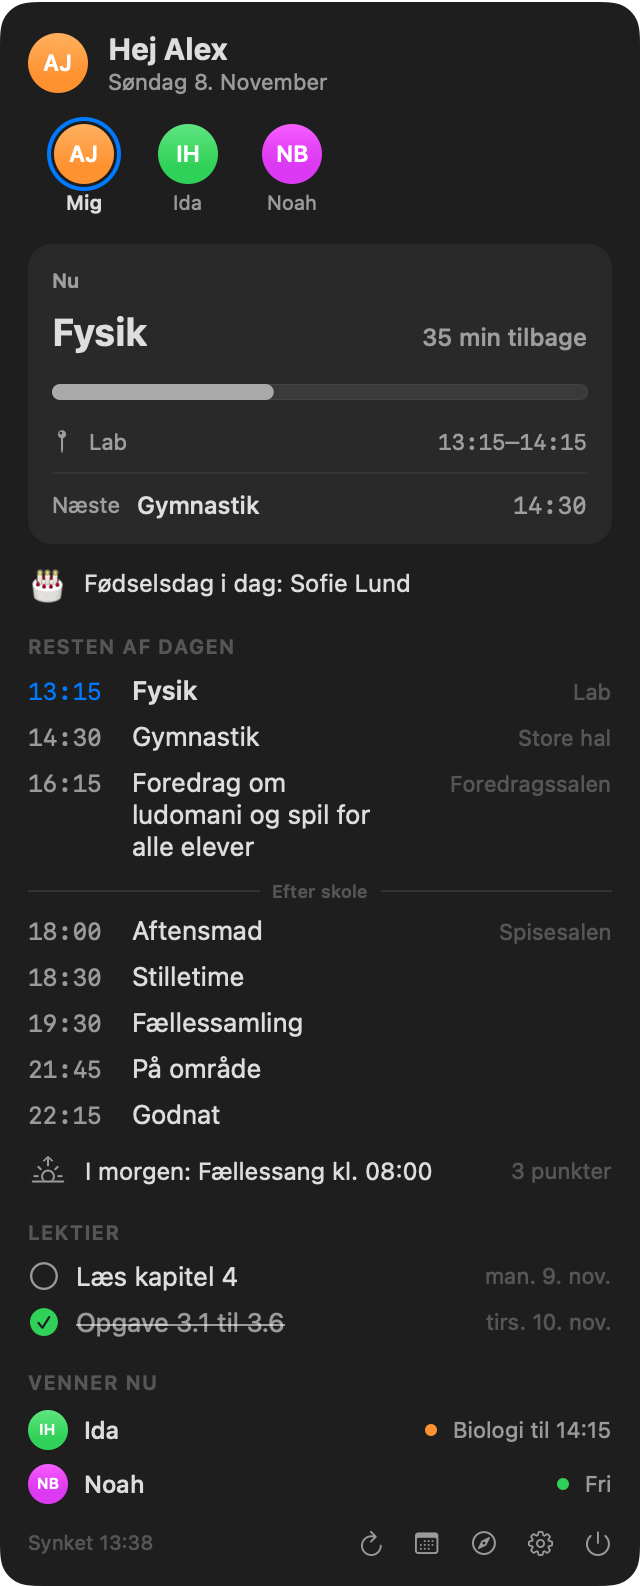
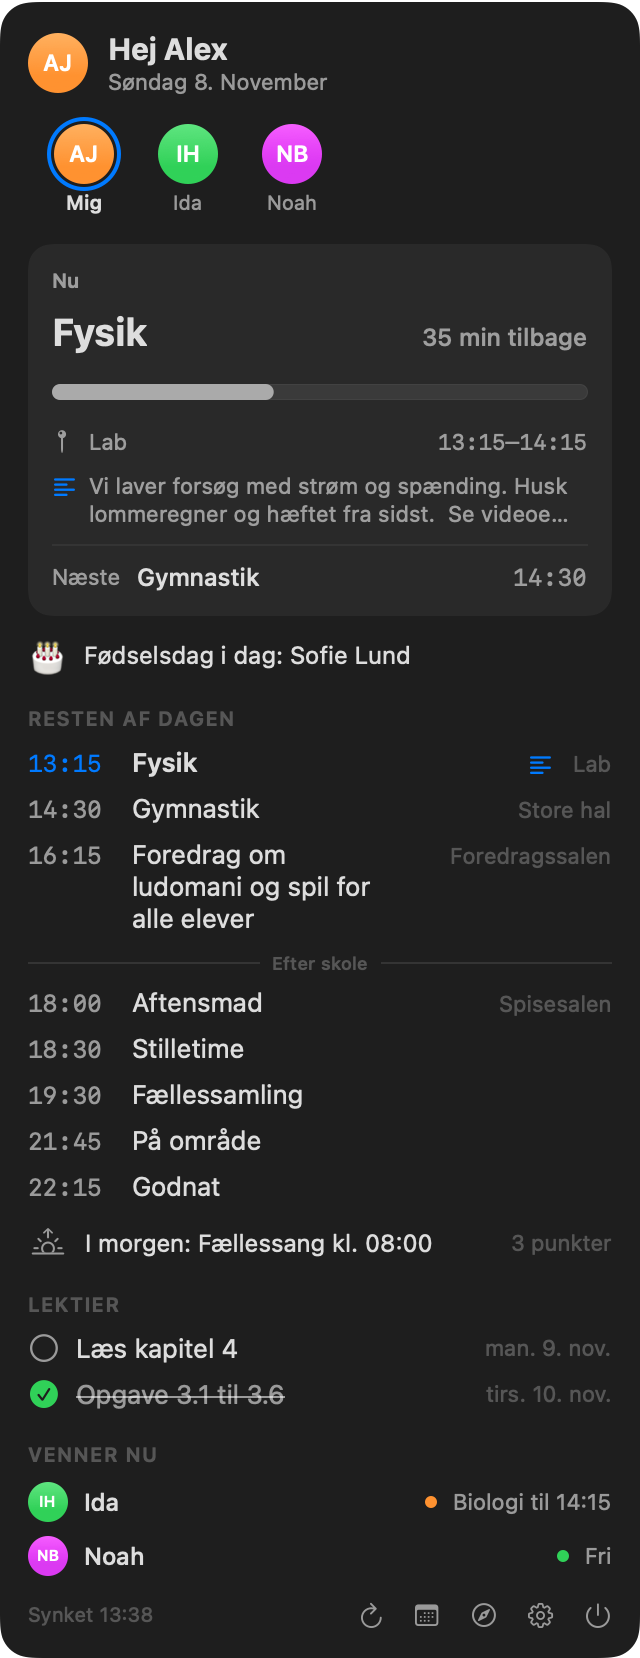
Version 1.2.0: info og links fra læreren til hver time

diff --git a/Sources/Features.swift b/Sources/Features.swift
@@ -374,8 +374,100 @@ struct GridBlock: View {
         .clipShape(RoundedRectangle(cornerRadius: 6, style: .continuous))
         .opacity(e.end < Date() ? 0.55 : 1)
         .help("\(e.title)\n\(DateUtil.hm(e.start))–\(DateUtil.hm(e.end))\(e.room.isEmpty ? "" : " · \(e.room)")")
+        .overlay(alignment: .topTrailing) {
+            if e.hasInfo || !e.links.isEmpty {
+                Image(systemName: "text.alignleft").font(.system(size: 9, weight: .bold)).foregroundStyle(tint)
+                    .padding(4)
+            }
+        }
         .contentShape(Rectangle())
-        .onTapGesture { NSWorkspace.shared.open(e.link) }
+        .onTapGesture { AppState.shared.openLesson(e) }
+    }
+}
+
+// MARK: - Lesson details
+
+struct LessonDetailView: View {
+    let e: ViggoEvent
+
+    private func linkLabel(_ u: URL) -> String {
+        let host = (u.host ?? u.absoluteString).replacingOccurrences(of: "www.", with: "")
+        if host.contains("youtube") || host.contains("youtu.be") { return "YouTube" }
+        if host.contains("drive.google") || host.contains("docs.google") { return "Google Drev" }
+        return host
+    }
+    private func linkIcon(_ u: URL) -> String {
+        let h = u.host ?? ""
+        if h.contains("youtube") || h.contains("youtu.be") { return "play.rectangle.fill" }
+        if h.contains("google") { return "doc.fill" }
+        return "link"
+    }
+
+    var body: some View {
+        let tint = e.customColor ?? (e.kind == .lesson ? Color.accentColor : .purple)
+        ScrollView {
+            VStack(alignment: .leading, spacing: 14) {
+                HStack(alignment: .top, spacing: 10) {
+                    RoundedRectangle(cornerRadius: 2).fill(tint).frame(width: 4, height: 40)
+                    VStack(alignment: .leading, spacing: 3) {
+                        Text(e.title).font(.system(size: 20, weight: .bold)).fixedSize(horizontal: false, vertical: true)
+                        Text("\(DateUtil.longDayF.string(from: e.start).capitalized) · \(DateUtil.hm(e.start))–\(DateUtil.hm(e.end))")
+                            .font(.system(size: 12)).foregroundStyle(.secondary)
+                    }
+                }
+                VStack(alignment: .leading, spacing: 6) {
+                    if !e.room.isEmpty { Label(e.room, systemImage: "mappin.and.ellipse") }
+                    if !e.teachers.isEmpty {
+                        Label(e.teachers.prefix(4).joined(separator: ", ") + (e.teachers.count > 4 ? " +\(e.teachers.count - 4)" : ""),
+                              systemImage: "person")
+                    }
+                    if !e.groups.isEmpty, e.groups.count <= 3 { Label(e.groups.joined(separator: ", "), systemImage: "person.3") }
+                }
+                .font(.system(size: 12)).foregroundStyle(.secondary)
+
+                if e.hasInfo {
+                    VStack(alignment: .leading, spacing: 8) {
+                        Text("Info fra læreren").font(.system(size: 11, weight: .semibold)).foregroundStyle(.secondary)
+                        Text(e.notes).font(.system(size: 13)).textSelection(.enabled)
+                            .fixedSize(horizontal: false, vertical: true)
+                    }
+                    .padding(12)
+                    .frame(maxWidth: .infinity, alignment: .leading)
+                    .background(RoundedRectangle(cornerRadius: 10, style: .continuous).fill(Color.primary.opacity(0.05)))
+                } else {
+                    Text("Ingen info fra læreren til denne time.").font(.system(size: 12)).foregroundStyle(.tertiary)
+                }
+
+                if !e.links.isEmpty {
+                    VStack(alignment: .leading, spacing: 6) {
+                        Text("Links").font(.system(size: 11, weight: .semibold)).foregroundStyle(.secondary)
+                        ForEach(e.links, id: \.self) { u in
+                            Link(destination: u) {
+                                HStack(spacing: 8) {
+                                    Image(systemName: linkIcon(u)).frame(width: 16)
+                                    Text(linkLabel(u)).font(.system(size: 12, weight: .medium))
+                                    Text(u.path.count > 1 ? u.path : "").font(.system(size: 11)).foregroundStyle(.tertiary).lineLimit(1)
+                                    Spacer()
+                                    Image(systemName: "arrow.up.right").font(.system(size: 10)).foregroundStyle(.tertiary)
+                                }
+                                .padding(8)
+                                .background(RoundedRectangle(cornerRadius: 8, style: .continuous).fill(Color.primary.opacity(0.05)))
+                            }
+                            .buttonStyle(.plain)
+                        }
+                    }
+                }
+
+                HStack {
+                    Spacer()
+                    Button("Åbn i Viggo") { NSWorkspace.shared.open(e.link) }
+                }
+            }
+            .padding(.horizontal, 22).padding(.top, 34).padding(.bottom, 18)
+        }
+        .frame(width: 420)
+        .frame(minHeight: 240, maxHeight: 640)
+        .background(Color(nsColor: .windowBackgroundColor).ignoresSafeArea())
     }
 }
 

diff --git a/Sources/Views.swift b/Sources/Views.swift
@@ -98,6 +98,10 @@ struct TimelineRow: View {
                     .fixedSize(horizontal: false, vertical: true)
                     .layoutPriority(1)
                 Spacer(minLength: 6)
+                if e.hasInfo || !e.links.isEmpty {
+                    Image(systemName: "text.alignleft").font(Sz.f(10, .bold)).foregroundStyle(Color.accentColor)
+                        .help("Der er info fra læreren")
+                }
                 if !e.room.isEmpty {
                     Text(e.room).font(Sz.f(11)).foregroundStyle(.tertiary).lineLimit(1).fixedSize()
                 }
@@ -105,8 +109,8 @@ struct TimelineRow: View {
             .opacity(past ? 0.35 : 1)
         }
         .contentShape(Rectangle())
-        .onTapGesture { if tappable { NSWorkspace.shared.open(e.link) } }
-        .help(tappable ? "Åbn i Viggo" : "")
+        .onTapGesture { AppState.shared.openLesson(e) }
+        .help(e.hasInfo ? "Se info fra læreren" : "Se detaljer")
     }
 }
 
@@ -147,6 +151,21 @@ struct NowCard: View {
                 if !n.room.isEmpty { Label(n.room, systemImage: "mappin").font(Sz.f(11)).foregroundStyle(.secondary) }
             } else {
                 Text(name.map { "\($0) har fri resten af dagen" } ?? "Fri resten af dagen 🎉").font(Sz.f(15, .semibold))
+            }
+            if let info = (current ?? next).flatMap({ $0.hasInfo ? $0 : nil }) {
+                Button { AppState.shared.openLesson(info) } label: {
+                    HStack(alignment: .top, spacing: 6) {
+                        Image(systemName: "text.alignleft").font(Sz.f(10, .bold)).foregroundStyle(Color.accentColor)
+                            .padding(.top, 2)
+                        Text(info.notes.replacingOccurrences(of: "\n", with: " "))
+                            .font(Sz.f(11)).foregroundStyle(.secondary).lineLimit(2)
+                            .multilineTextAlignment(.leading)
+                        Spacer(minLength: 0)
+                    }
+                    .contentShape(Rectangle())
+                }
+                .buttonStyle(.plain)
+                .help("Se info fra læreren")
             }
             if current != nil, let n = next {
                 Divider().opacity(0.5)

diff --git a/Sources/DocRenderer.swift b/Sources/DocRenderer.swift
@@ -22,6 +22,9 @@ enum DocRenderer {
         state.selectedFriend = nil
 
         snap(WeekView().environmentObject(state), name: "week", dir: dir, size: NSSize(width: 1040, height: 720))
+        if let fysik = state.events.first(where: { $0.id == 4 }) {
+            snap(LessonDetailView(e: fysik), name: "lesson", dir: dir)
+        }
 
         Updater.shared.available = Updater.Release(
             version: "1.2.0", highlights: ["Uge-overblik med alle dine timer", "Fødselsdage i panelet", "Genvejstast til panelet"],
@@ -59,7 +62,10 @@ enum DocRenderer {
             ev(1, "Dansk", 8, 35, 9, 35, room: "Klasse 2"),
             ev(2, "Engelsk", 9, 55, 10, 55, room: "Klasse 2"),
             ev(3, "Matematik", 11, 5, 12, 5, room: "Klasse 3"),
-            ev(4, "Fysik", 13, 15, 14, 15, room: "Lab"),
+            ViggoEvent(id: 4, rawName: "Fysik", start: at(13, 15), end: at(14, 15), room: "Lab",
+                       notes: "Vi laver forsøg med strøm og spænding. Husk lommeregner og hæftet fra sidst.\n\nSe videoen inden timen:\n• Ohms lov på 5 minutter\n• Opgave 4.1 til 4.3",
+                       kind: .lesson, teachers: ["Maja Holm"], groups: ["Fysik (Fys104)"],
+                       links: [URL(string: "https://www.youtube.com/watch?v=demo")!, URL(string: "https://drive.google.com/file/d/demo/view")!]),
             ev(5, "Gymnastik", 14, 30, 16, 0, room: "Store hal"),
             ev(10, "Aftensmad", 18, 0, 18, 30, room: "Spisesalen", kind: .routine),
             ev(11, "Stilletime og oprydning på værelset", 18, 30, 19, 30, kind: .routine),

diff --git a/Sources/AppState.swift b/Sources/AppState.swift
@@ -29,6 +29,7 @@ final class AppState: ObservableObject {
     @Published var questionnaireCount = 0
     @Published var bulletins: [Bulletin] = []
     private var weekWindow: NSWindow?
+    private var lessonWindow: NSWindow?
     private var focusActive: Bool?
     private var friendLogin: WebLogin?
 
@@ -682,6 +683,24 @@ final class AppState: ObservableObject {
     }
 
     func openViggo(_ url: URL = Config.baseURL) { NSWorkspace.shared.open(url) }
+
+    /// Shows a lesson with the teacher's info and links.
+    func openLesson(_ e: ViggoEvent) {
+        let host = NSHostingController(rootView: LessonDetailView(e: e))
+        if let w = lessonWindow {
+            w.contentViewController = host
+        } else {
+            let w = NSWindow(contentViewController: host)
+            w.styleMask = [.titled, .closable, .fullSizeContentView]
+            w.titlebarAppearsTransparent = true
+            w.isReleasedWhenClosed = false
+            lessonWindow = w
+        }
+        lessonWindow?.title = e.title
+        lessonWindow?.center()
+        NSApp.activate(ignoringOtherApps: true)
+        lessonWindow?.makeKeyAndOrderFront(nil)
+    }
 
     func openWeek() {
         if weekWindow == nil {

diff --git a/Sources/Models.swift b/Sources/Models.swift
@@ -12,6 +12,11 @@ struct ViggoEvent: Codable, Hashable, Identifiable {
     let kind: EventKind
     let teachers: [String]
     let groups: [String]
+    /// Links the teacher put in the lesson description (videos, Drive files …).
+    var links: [URL] = []
+
+    /// The teacher's description: what to do, read or bring.
+    var hasInfo: Bool { !notes.isEmpty }
 
     var key: String { "\(kind.rawValue)-\(id)" }
     /// The name you gave this lesson in Indstillinger › Timer, otherwise Viggo's.
@@ -121,7 +126,9 @@ enum Parser {
                 start: start, end: end,
                 room: (o["premises"] as? String ?? "").trimmingCharacters(in: .whitespaces),
                 notes: (o["description"] as? String ?? "").strippedHTML,
-                kind: finalKind, teachers: teachers, groups: groups)
+                kind: finalKind, teachers: teachers, groups: groups,
+                links: (o["description"] as? String ?? "").matches("href=\"(https?://[^\"]+)\"")
+                    .compactMap { URL(string: $0[1].htmlDecoded) })
         }
     }
 

diff --git a/Sources/Util.swift b/Sources/Util.swift
@@ -83,6 +83,7 @@ extension String {
 
     var strippedHTML: String {
         var s = replacingOccurrences(of: "<script.*?</script>", with: "", options: [.regularExpression, .caseInsensitive])
+        s = s.replacingOccurrences(of: "<li[^>]*>", with: "• ", options: [.regularExpression, .caseInsensitive])
         s = s.replacingOccurrences(of: "<br ?/?>|</p>|</li>", with: "\n", options: [.regularExpression, .caseInsensitive])
         s = s.replacingOccurrences(of: "<[^>]+>", with: "", options: .regularExpression)
         s = s.htmlDecoded

diff --git a/README.md b/README.md
@@ -10,6 +10,14 @@
   <img src="docs/screens/panel-friend.png" alt="En vens dag" width="320">
 </p>
 
+## Info fra læreren
+
+Klik på en time i panelet eller uge-overblikket, så ser du hvad læreren har skrevet til timen: hvad I skal, hvad du skal læse eller have med, og links til videoer og filer.
+
+<p align="center">
+  <img src="docs/screens/lesson.png" alt="Info fra læreren" width="420">
+</p>
+
 ## Uge-overblik
 
 <p align="center">
@@ -82,6 +90,7 @@ Klik på en side for at se den.
 
 - Menubaren viser hvad du har lige nu, fx `Dansk → 14:15`, og hvad der er næste gang når du har fri. Efter skoletid skifter den til hverdagen: aftensmad, stilletime, godnat.
 - Klik på den for panelet: et "Nu"-kort med tid tilbage, resten af dagen som én tidslinje, i morgen, lektier, beskeder og aftenvagt. Hver del kan slås til og fra, og der er en indstilling med stor tekst.
+- Klik på en time for at se lærerens info: hvad I skal, hvad du skal have med, og links til videoer og filer.
 - Sæt lektier som færdige direkte i panelet. Det bliver gemt i Viggo.
 - Ulæste beskeder og spørgeskemaer vises som et tal i menubaren.
 - Notifikationer når en time bliver flyttet, aflyst eller skifter lokale, når der kommer nye lektier eller en ny besked, og en brief morgen og aften.

diff --git a/CHANGELOG.md b/CHANGELOG.md
@@ -1,5 +1,11 @@
 # Ændringer
 
+## 1.2.0 (2026-11-08)
+
+- **Info fra læreren**: klik på en time, så ser du hvad I skal, hvad du skal læse eller have med, og lærerens links (videoer, Drev-filer). Timer med info har et lille ikon.
+- **Nu-kortet** viser starten af lærerens info til den time du har nu eller skal have.
+- Info og links kan også ses fra uge-overblikket.
+
 ## 1.1.2 (2026-11-08)
 
 - **Weekenden vises altid** i uge-overblikket: lørdag og søndag står med, også når der ikke er noget på dem.
